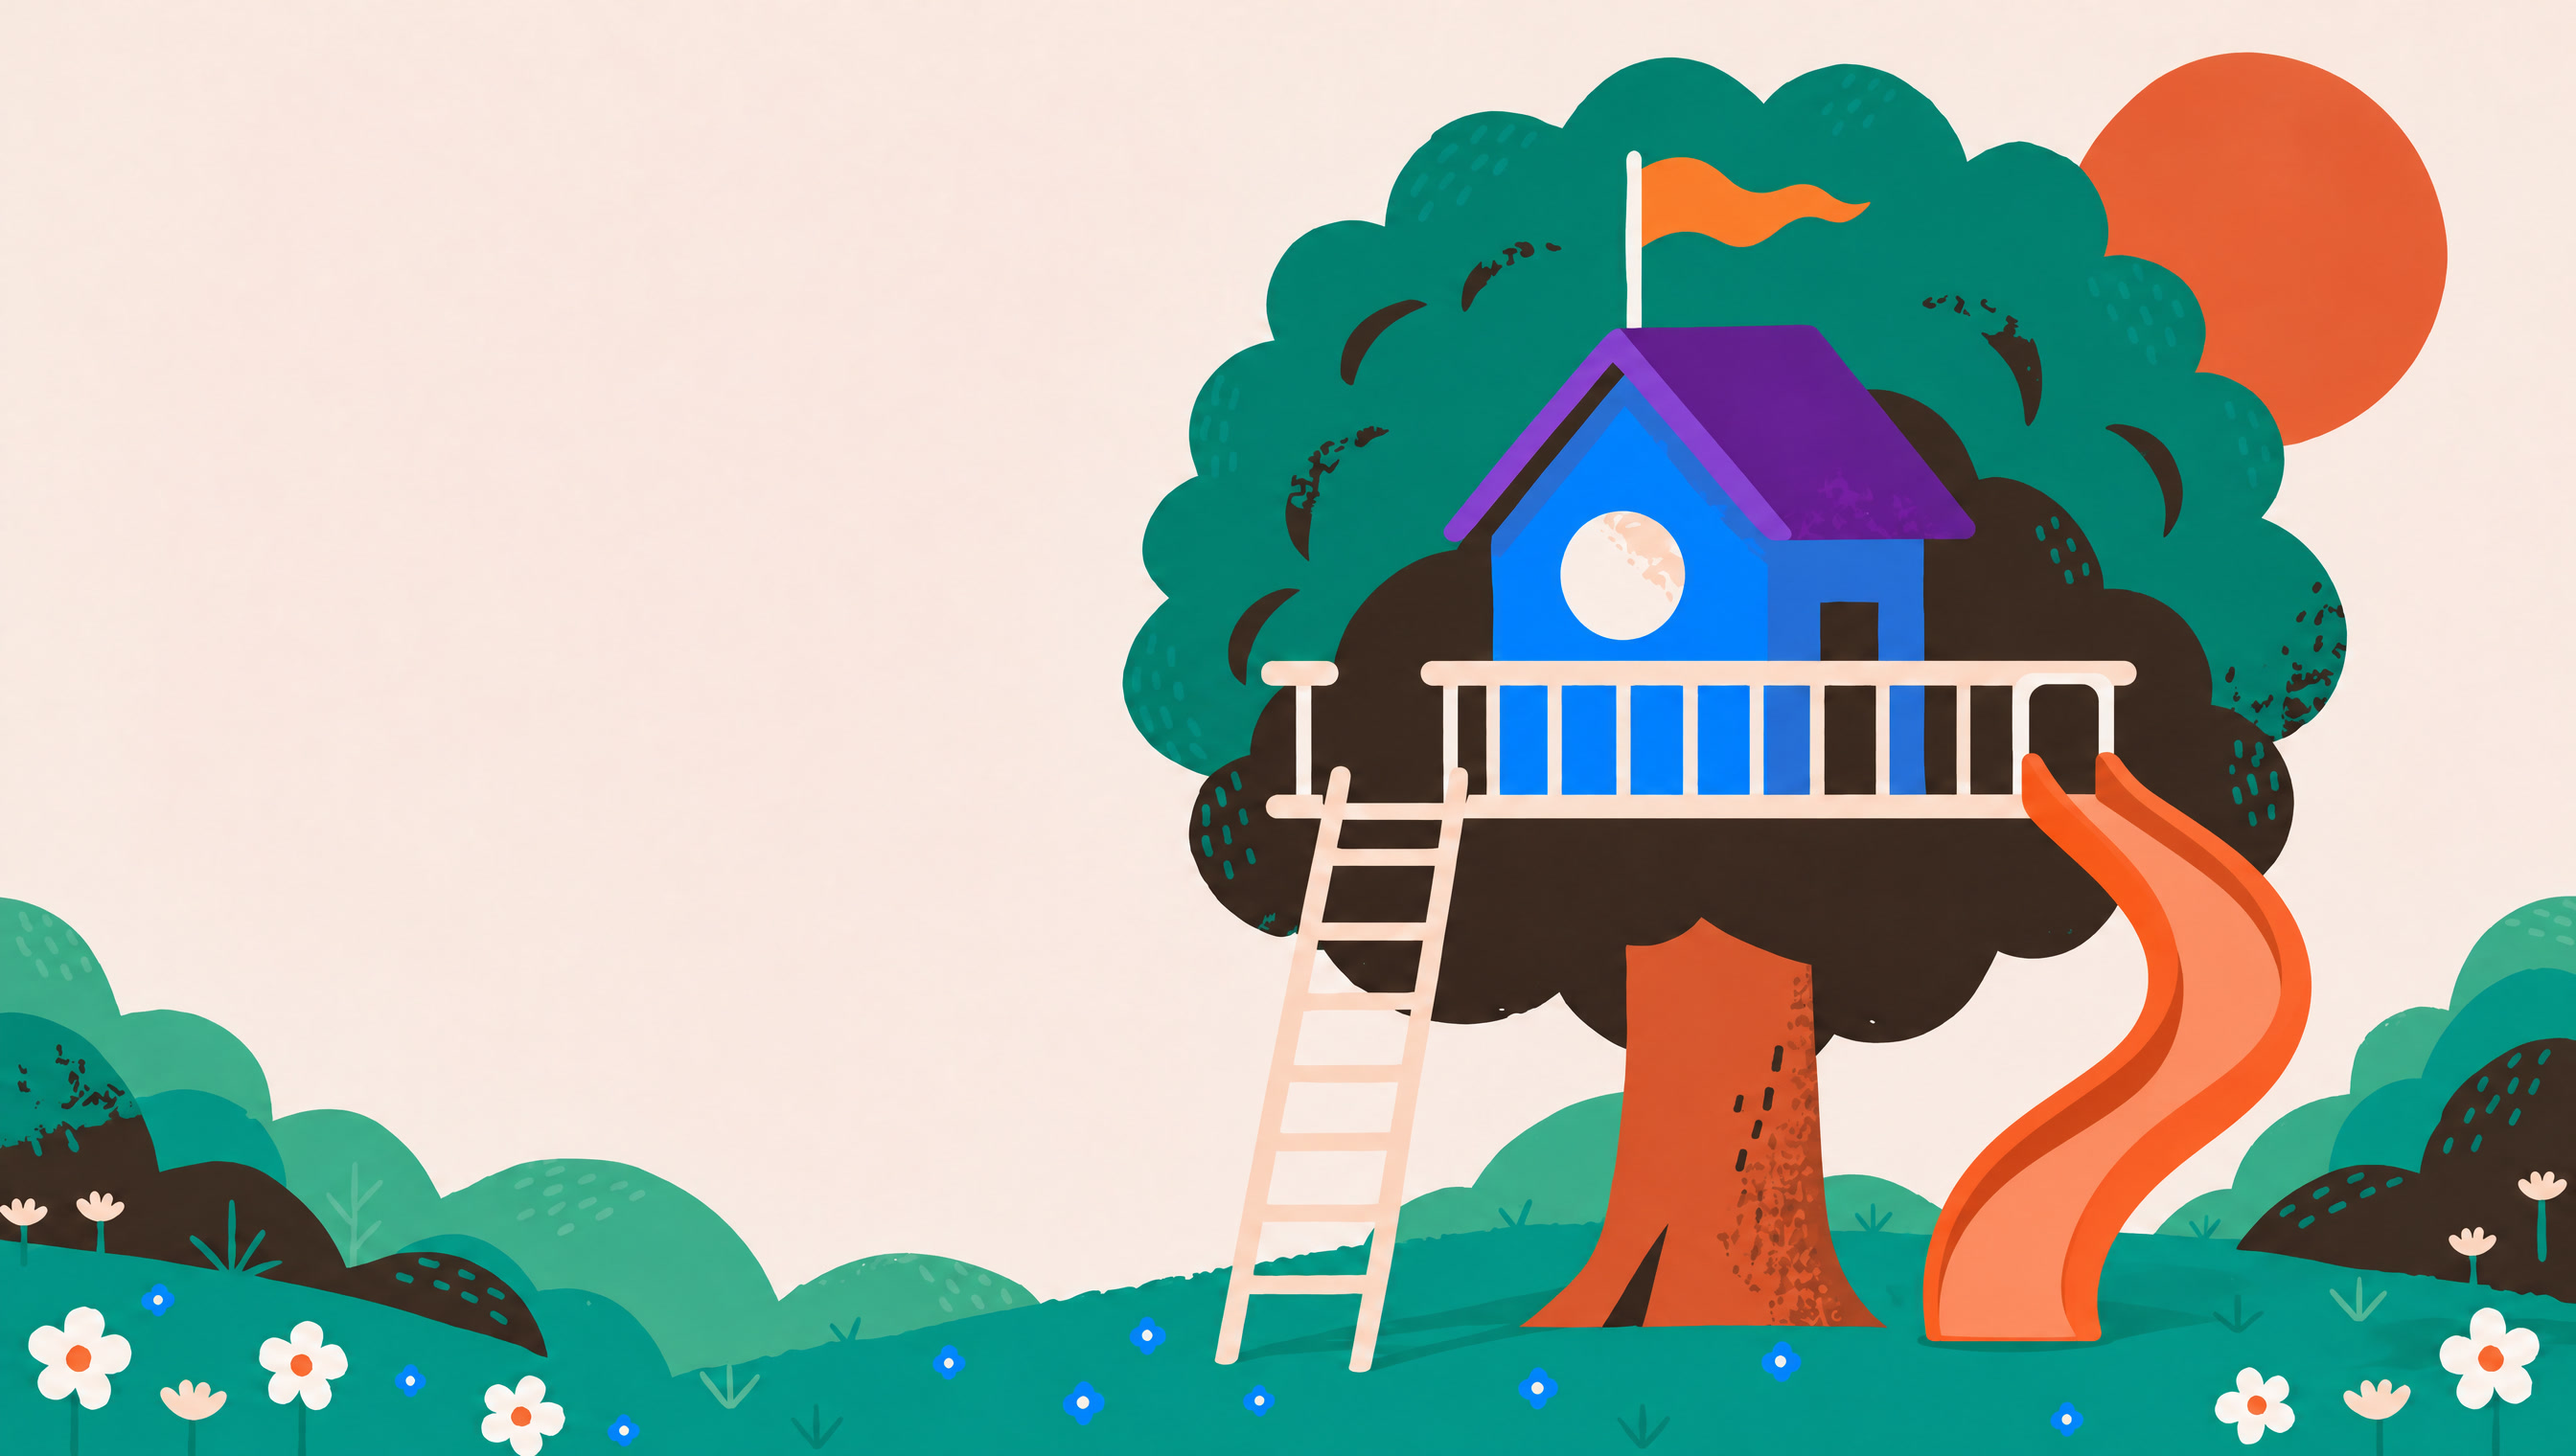
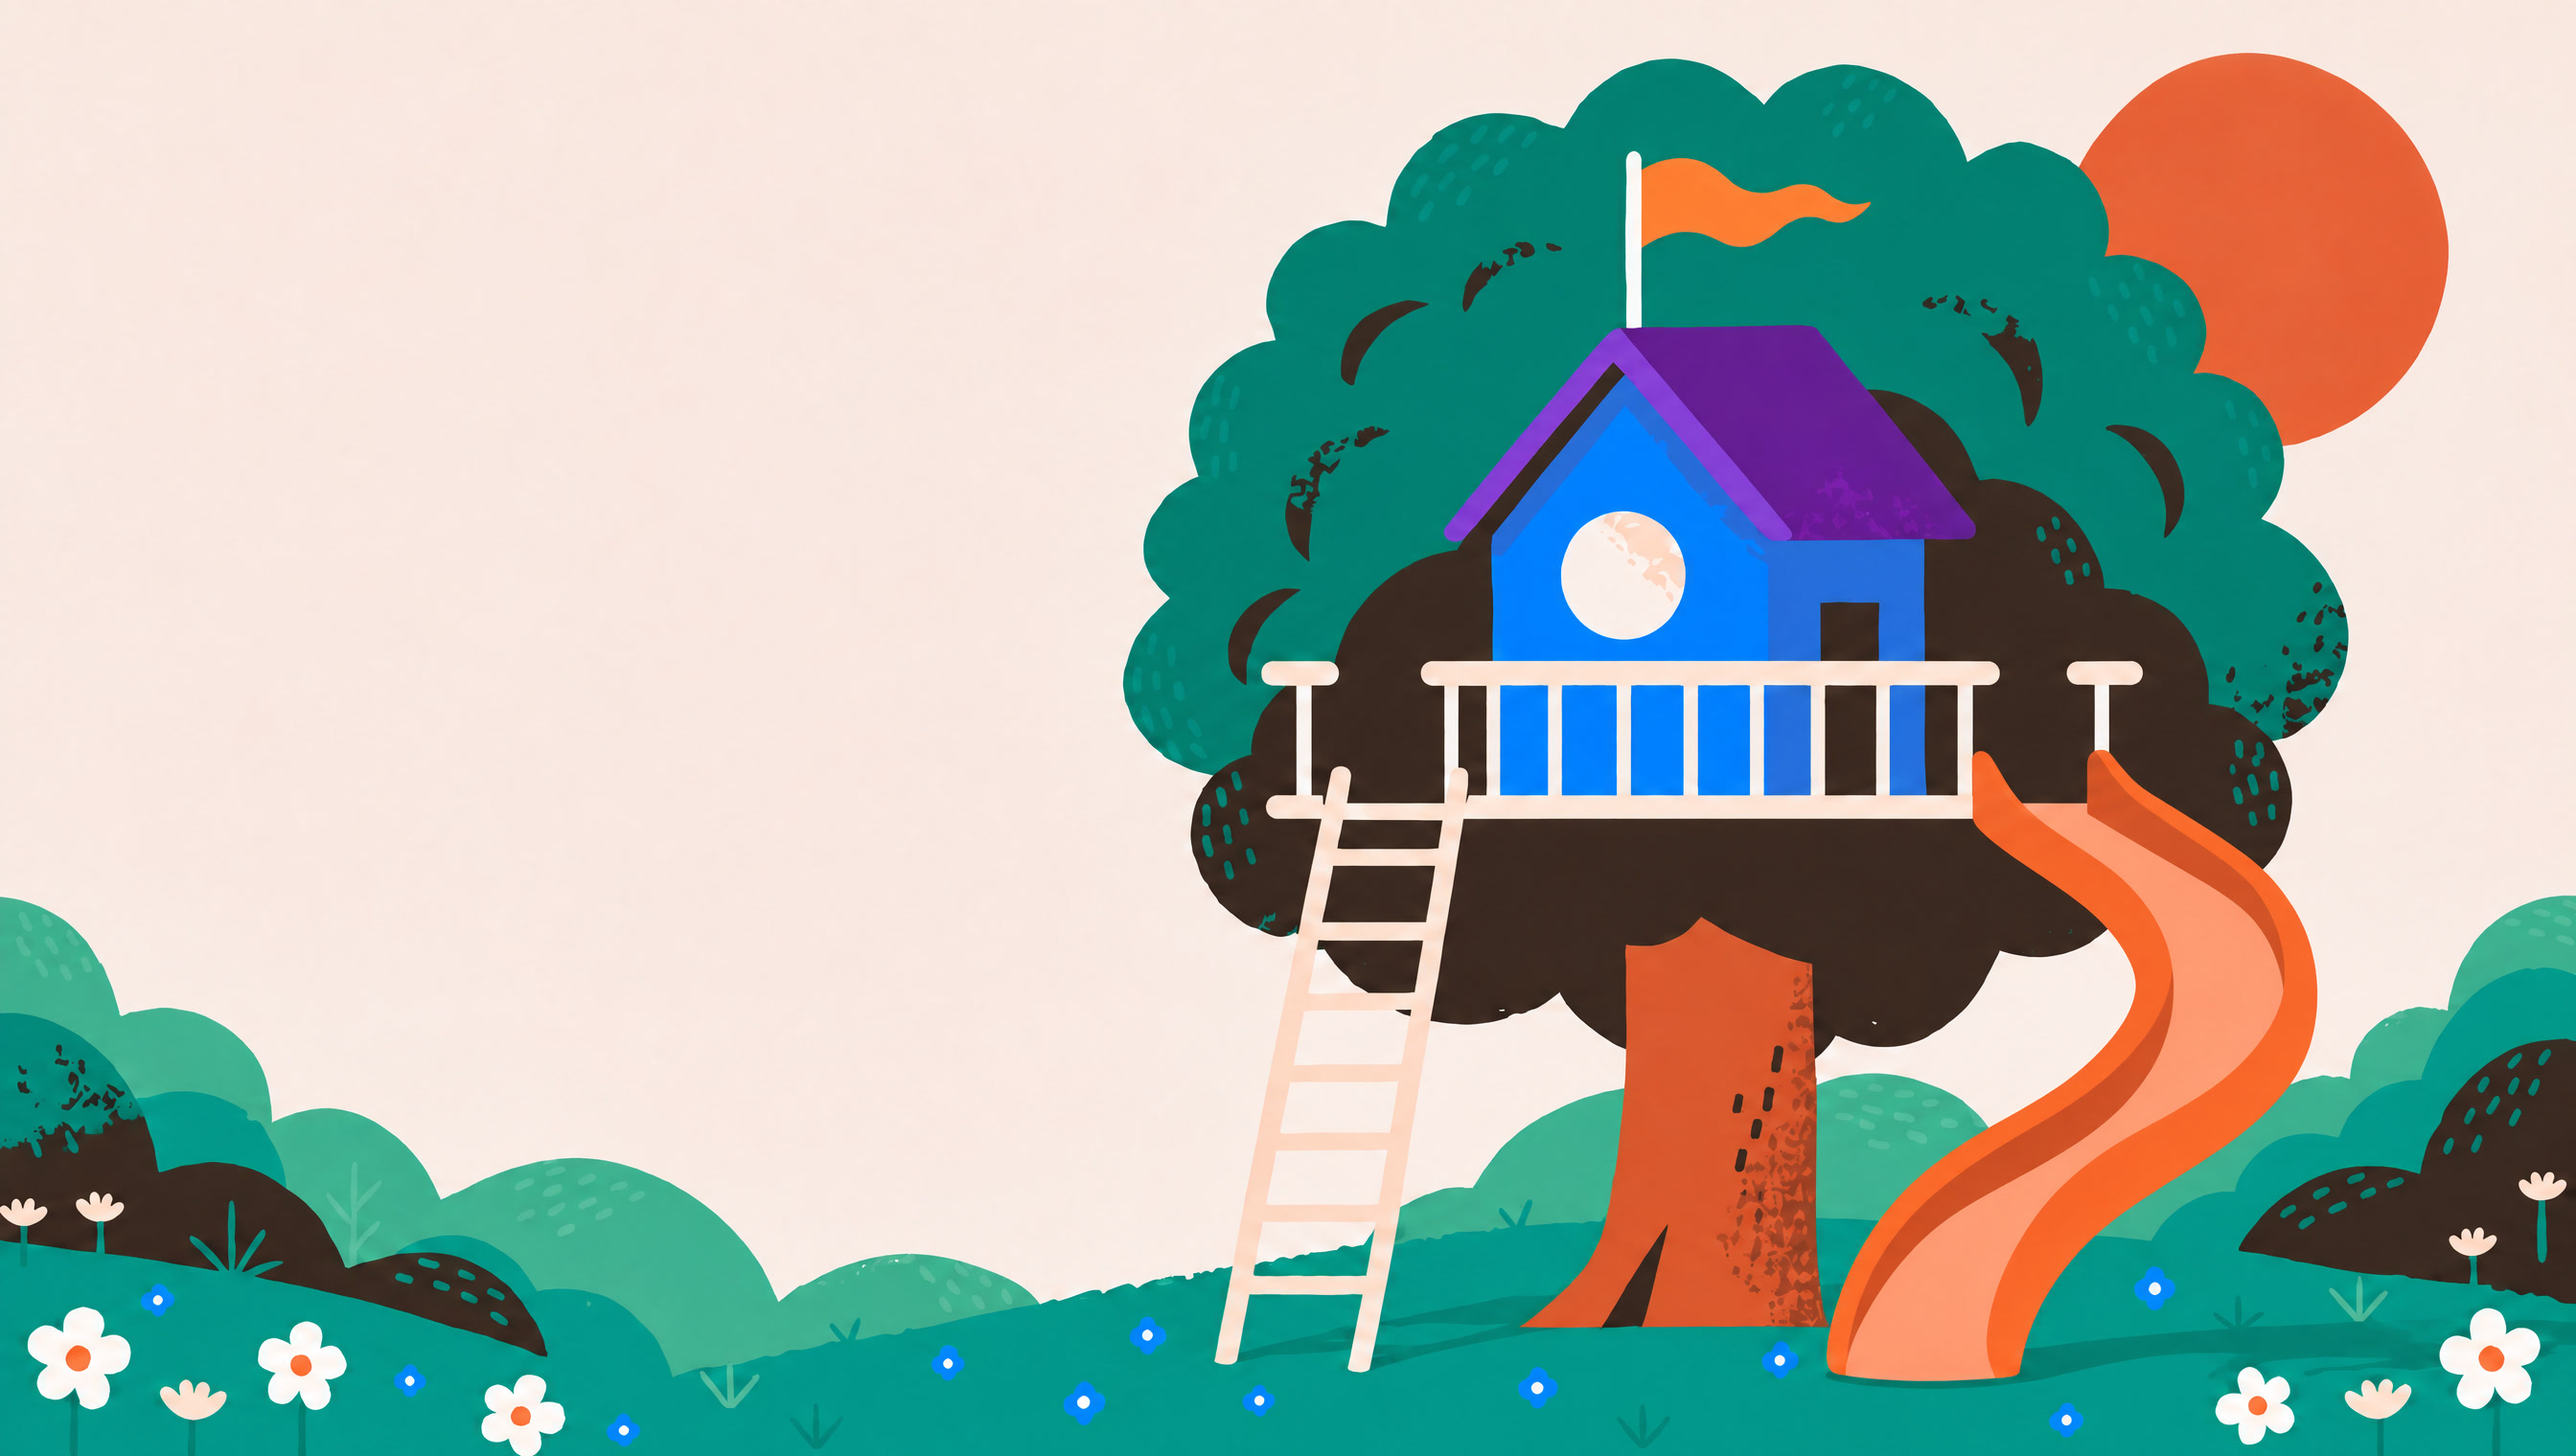
Make the R's wink a whole-body squash and stretch; open the railing for the slide
Claude-Session: https://claude.ai/code/session_01HWRLNP4zRgNHV44X9u2tkQ

Changed region(s): [[0.6875, 0.4329, 0.9062, 0.9586], [0.6875, 0.5257, 0.7188, 0.5566], [0.0312, 0.7421, 0.0625, 0.773]]

diff --git a/docs/video/intro/animatic-page.js b/docs/video/intro/animatic-page.js
@@ -58,6 +58,12 @@ const placeMark = (name, x, y, s, opacity) => { const el = pics['mark-' + name];
 const ash = (name, o = 1) => { show(name + '-ash', o); if (pics[name + '-slide']) show(name + '-slide', o); };
 const dissolve = (a, b, p, fn = show) => { fn(a, 1); fn(b, ease(p)); };
 
+const WINK = [[0, 1, 1, 0, 0], [.14, 1.2, .76, 0, 0], [.3, .84, 1.24, -8, -26], [.46, .88, 1.16, -5, -14], [.6, 1.16, .84, 0, 0], [.75, .94, 1.07, 0, 0], [.9, 1.04, .96, 0, 0], [1.05, .99, 1.01, 0, 0], [1.2, 1, 1, 0, 0]];
+function wink(w) { if (w <= 0 || w >= 1.2) return [1, 1, 0, 0];
+  let i = 0; while (WINK[i + 1][0] < w) i++;
+  const [t0, ...a] = WINK[i], [t1, ...b] = WINK[i + 1], p = inout((w - t0) / (t1 - t0));
+  return a.map((v, j) => v + (b[j] - v) * p); }
+
 const BEATS = [
   // 1. The idea.
   { name: 'idea', dur: 2.5, draw: (t) => { show('01-hill');
@@ -114,11 +120,16 @@ const BEATS = [
   { name: 'end', dur: 5.5, draw: (t) => { const p = inout(prog(t, 0, .7)); show('10-village', 1 - p);
       placeMark('rules-for-robots', 413, 360, 150, ease(prog(t, .5, .4)));
       ['engineering', 'creation', 'research'].forEach((m, i) => placeMark(m, 552 + i * 78, 688, 64, ease(prog(t, 1.6 + i * .1, .35))));
-      // The R winks. Its eye is at (65, 58), radius 6.5, inside the mark's (9, 8.5) scale .64 group, and the mark is 150 wide here.
-      const k = 150 / 128, ex = 413 + (9 + 65 * .64) * k, ey = 360 + (8.5 + 58 * .64) * k, er = 6.5 * .64 * k;
-      const shut = Math.sin(Math.PI * clamp((t - 4.1) / .45));
-      over.innerHTML = shut <= 0 ? '' : `<circle cx="${ex}" cy="${ey}" r="${(er + 1.2).toFixed(2)}" fill="${O}"/>` + (shut > .8
-        ? `<path d="M${ex - er * 1.3} ${ey - er * .2} Q${ex} ${ey + er * 1.1} ${ex + er * 1.3} ${ey - er * .2}" fill="none" stroke="${INK}" stroke-width="${(er * .55).toFixed(2)}" stroke-linecap="round"/>`
+      // The R winks with its whole body: it squashes, springs up and leans as the eye shuts, lands in a squash, and
+      // wobbles back to rest, pivoting on the middle of its base. Its eye is at (65, 58), radius 6.5, inside the mark's
+      // (9, 8.5) scale .64 group; the mark is 150 wide here.
+      const k = 150 / 128, ex = 413 + (9 + 65 * .64) * k, ey = 360 + (8.5 + 58 * .64) * k, er = 6.5 * .64 * k, w = t - 3.9;
+      const [sx, sy, rot, dy] = wink(w), shut = w < .25 ? 0 : w < .31 ? (w - .25) / .06 : w < .6 ? 1 : w < .68 ? 1 - (w - .6) / .08 : 0;
+      const body = w <= 0 || w >= 1.2 ? '' : `translate(488 510) translate(0 ${dy.toFixed(2)}) rotate(${rot.toFixed(2)}) scale(${sx.toFixed(4)} ${sy.toFixed(4)}) translate(-488 -510)`;
+      if (body) pics['mark-rules-for-robots'].setAttribute('transform', body);
+      over.setAttribute('transform', body);
+      over.innerHTML = shut <= 0 ? '' : `<circle cx="${ex}" cy="${ey}" r="${(er + 1.6).toFixed(2)}" fill="${O}"/>` + (shut > .7
+        ? `<path d="M${ex - er * 1.6} ${ey - er * .5} Q${ex} ${ey + er * 1.4} ${ex + er * 1.6} ${ey - er * .5}" fill="none" stroke="${INK}" stroke-width="${(er * .75).toFixed(2)}" stroke-linecap="round"/>`
         : `<ellipse cx="${ex}" cy="${ey}" rx="${er}" ry="${(er * (1 - shut)).toFixed(2)}" fill="${INK}"/>`);
       return txt('A skilled team building your biggest ideas,', 960, 96, 54, INK, 700, 'middle') + txt('the way you envision them.', 960, 164, 54, SP, 700, 'middle')
         + rise(prog(t, .5), txt('Rules for Robots', 593, 470, 104, INK))
@@ -131,7 +142,7 @@ let acc = 0; for (const b of BEATS) { b.start = acc; acc += b.dur; }
 window.__total = acc; window.__beats = BEATS.map((b) => [b.name, b.start, b.dur]);
 window.__seek = (t) => { t = clamp(t, 0, acc - .001);
   for (const el of Object.values(pics)) { el.setAttribute('opacity', 0); el.removeAttribute('clip-path'); }
-  over.innerHTML = '';
+  over.innerHTML = ''; over.removeAttribute('transform'); if (pics['mark-rules-for-robots']) pics['mark-rules-for-robots'].removeAttribute('transform');
   const b = BEATS.filter((x) => t >= x.start).pop();
   words.innerHTML = b.draw(t - b.start, b.dur); };
 window.__seek(0);

diff --git a/docs/video/intro/design.md b/docs/video/intro/design.md
@@ -12,10 +12,10 @@ Stage 4 of [the process](../process.md), 2026-11-14. Approved after the retake o
 | `06-sketch.jpg` | 8 | 01 and 07 as revised, a pencil sketch of the treehouse | `6ce68f6b-c378-4b8a-b7de-3563ccb3bc91` | `c28892ed-d626-4dbd-a346-9e3b6bcd6af5`; from the earlier 07, `fc269f15-72dc-42b1-8448-dafec19d0f90`, `2c55c42e-7c06-4ab2-b3bd-ad8b5d79ced4` |
 | `07-bare-pole.jpg` | 8 | The master, slide and flag removed (`250694c6-709a-4456-9db3-2451de952700`), then an opening in the railing above the ladder | `87d1c5c9-3145-44c5-a6c7-16014f2917a2` | `7a7c802b-75af-4511-9dd1-7594c8077cf2`; and `b9d3c6c5-9703-41ec-89ef-4a8165b1513d` |
 | `08-flag.jpg` | 9, 10 | 07 as revised, the flag added | `bfd1ec8e-3a7e-49e8-94ca-b28c55affdfd` | `b90d2789-cad8-4111-bc77-726b9e920b30`; from the earlier 07, `ad84a61b-6fd5-42e6-8ddb-2b0290c85879`, `6fbda81d-8a4b-451d-8d72-91858f503faf`; and one edited from the master, whose railing changed colour, `a5fdd6f4-ffae-438b-9459-b7ab37ea8030` |
-| `09-slide.jpg` | 11 | 08 as revised, the village's slide added clear of the trunk, with an opening in the railing at its top | `97632c4d-df72-4364-b824-c7e90d737e78` | `9d6f04b7-bdab-46a6-b106-234a794f2143`, `41f225f0-a7d7-4701-935a-76d8b5e797e1`; one whose slide ran into the trunk, `289e9528-8bdc-4569-b683-81dda371bd31`; `eae4ee17-6b98-445b-a418-0df575e8cecc` (railing left across the slide); from the earlier 08, `85d4114f-0da6-4f2c-b98d-c44a888666ba`, `b76746dc-5630-42ac-956b-96a3d3b47eaf` |
+| `09-slide.jpg` | 11 | 08 as revised, with the S-curve slide of `289e9528`, its top in an opening in the railing as in the village, and its foot clear of the trunk | `4939ad7a-7090-4070-8789-5670424647d8` | `0115c7b4-38a0-43c1-ade8-aa87ce9fcea3`, `16584585-fa5e-4d18-b517-6e354c39d93d`; with the railing still across the slide's top, `97632c4d-df72-4364-b824-c7e90d737e78`, `9d6f04b7-bdab-46a6-b106-234a794f2143`, `41f225f0-a7d7-4701-935a-76d8b5e797e1`; one whose slide ran into the trunk, `289e9528-8bdc-4569-b683-81dda371bd31`; `eae4ee17-6b98-445b-a418-0df575e8cecc` (railing left across the slide); from the earlier 08, `85d4114f-0da6-4f2c-b98d-c44a888666ba`, `b76746dc-5630-42ac-956b-96a3d3b47eaf` |
 | `10-village.jpg` | 12 | The village (`39c12b84-59e1-4bb5-916b-fc7838046916`) with its centre treehouse replaced by 09 as revised, and the sun kept | `f1d350a0-1a9e-4384-a26c-3297c7060633` | `54b67efa-3db2-43d8-8667-c0f5262217ce`; earlier, `39c12b84-59e1-4bb5-916b-fc7838046916`, `69a1a920-e3e0-4cdd-a792-9f3cdcabc40e` |
 
-The maintainer's note on 04 (2026-11-14): "it works best if the top of the slide completely obscures the top of ladder ... but the ladder pokes out from behind the base". 04 and 05 were retaken to it. After the animatic, the maintainer's note: "in the post-turn treehouse, the railing blocks both the top of the ladder and the top of the slide." 07 was retaken with an opening above the ladder, then 08, 09 (with an opening at the slide's top), and 06 were made again from it; and the animatic's review found the village's centre treehouse different from 09 and its sun gone, so 10 was rebuilt from 09. Then the maintainer's note: "the base of the slide merges with the tree trunk at the base when it's added. It's correct in the village picture." 09 was retaken from 08 with the village as the reference for the slide. This stage cost 107.25 credits (39 takes); 257.75 have been spent on the film.
+The maintainer's note on 04 (2026-11-14): "it works best if the top of the slide completely obscures the top of ladder ... but the ladder pokes out from behind the base". 04 and 05 were retaken to it. After the animatic, the maintainer's note: "in the post-turn treehouse, the railing blocks both the top of the ladder and the top of the slide." 07 was retaken with an opening above the ladder, then 08, 09 (with an opening at the slide's top), and 06 were made again from it; and the animatic's review found the village's centre treehouse different from 09 and its sun gone, so 10 was rebuilt from 09. Then the maintainer's note: "the base of the slide merges with the tree trunk at the base when it's added. It's correct in the village picture." 09 was retaken from 08 with the village as the reference for the slide. Then: "slide c was my favourite" and "when the slide appears the top of the railing is still blocked. on the village image it looks perfect." 09 was retaken once more with slide-c's curve and the village's opening. This stage cost 115.5 credits (42 takes); 266 have been spent on the film.
 
 What the code adds, not the pictures: the grey of beats 2 to 6 with the slide kept in colour, the bubbles and headings, the new-session divider, the turn, the decisions card, and the end card.
 

diff --git a/docs/video/intro/script.md b/docs/video/intro/script.md
@@ -43,7 +43,7 @@ Every beat is at or under four words a second except the record (5.2) and the en
 
 - **End card, after the animatic.** The maintainer: "leave the motto at the top of the end slide when Rules for Robots comes out and put the 'practical guide...' text back under Rules for Robots".
 
-- **The wink.** The maintainer: "maybe the R in the last slide could wink at the end?" After the hammer line, the eye of the R in the mark closes into an arc and opens again.
+- **The wink.** The maintainer: "maybe the R in the last slide could wink at the end?" After the hammer line, the eye of the R in the mark closes into an arc and opens again. Then: "The wink needs to be a much more cartoon-y squash-and-stretch action. A whole body kind of wink, so it reads from a distance". The whole mark squashes, springs up and leans as the eye shuts, lands in a squash, and wobbles to rest.
 
 Decided earlier: the master runs about 60 seconds ("60 seconds sounds good"), and a 30-second cut is made at stage 10.
 
